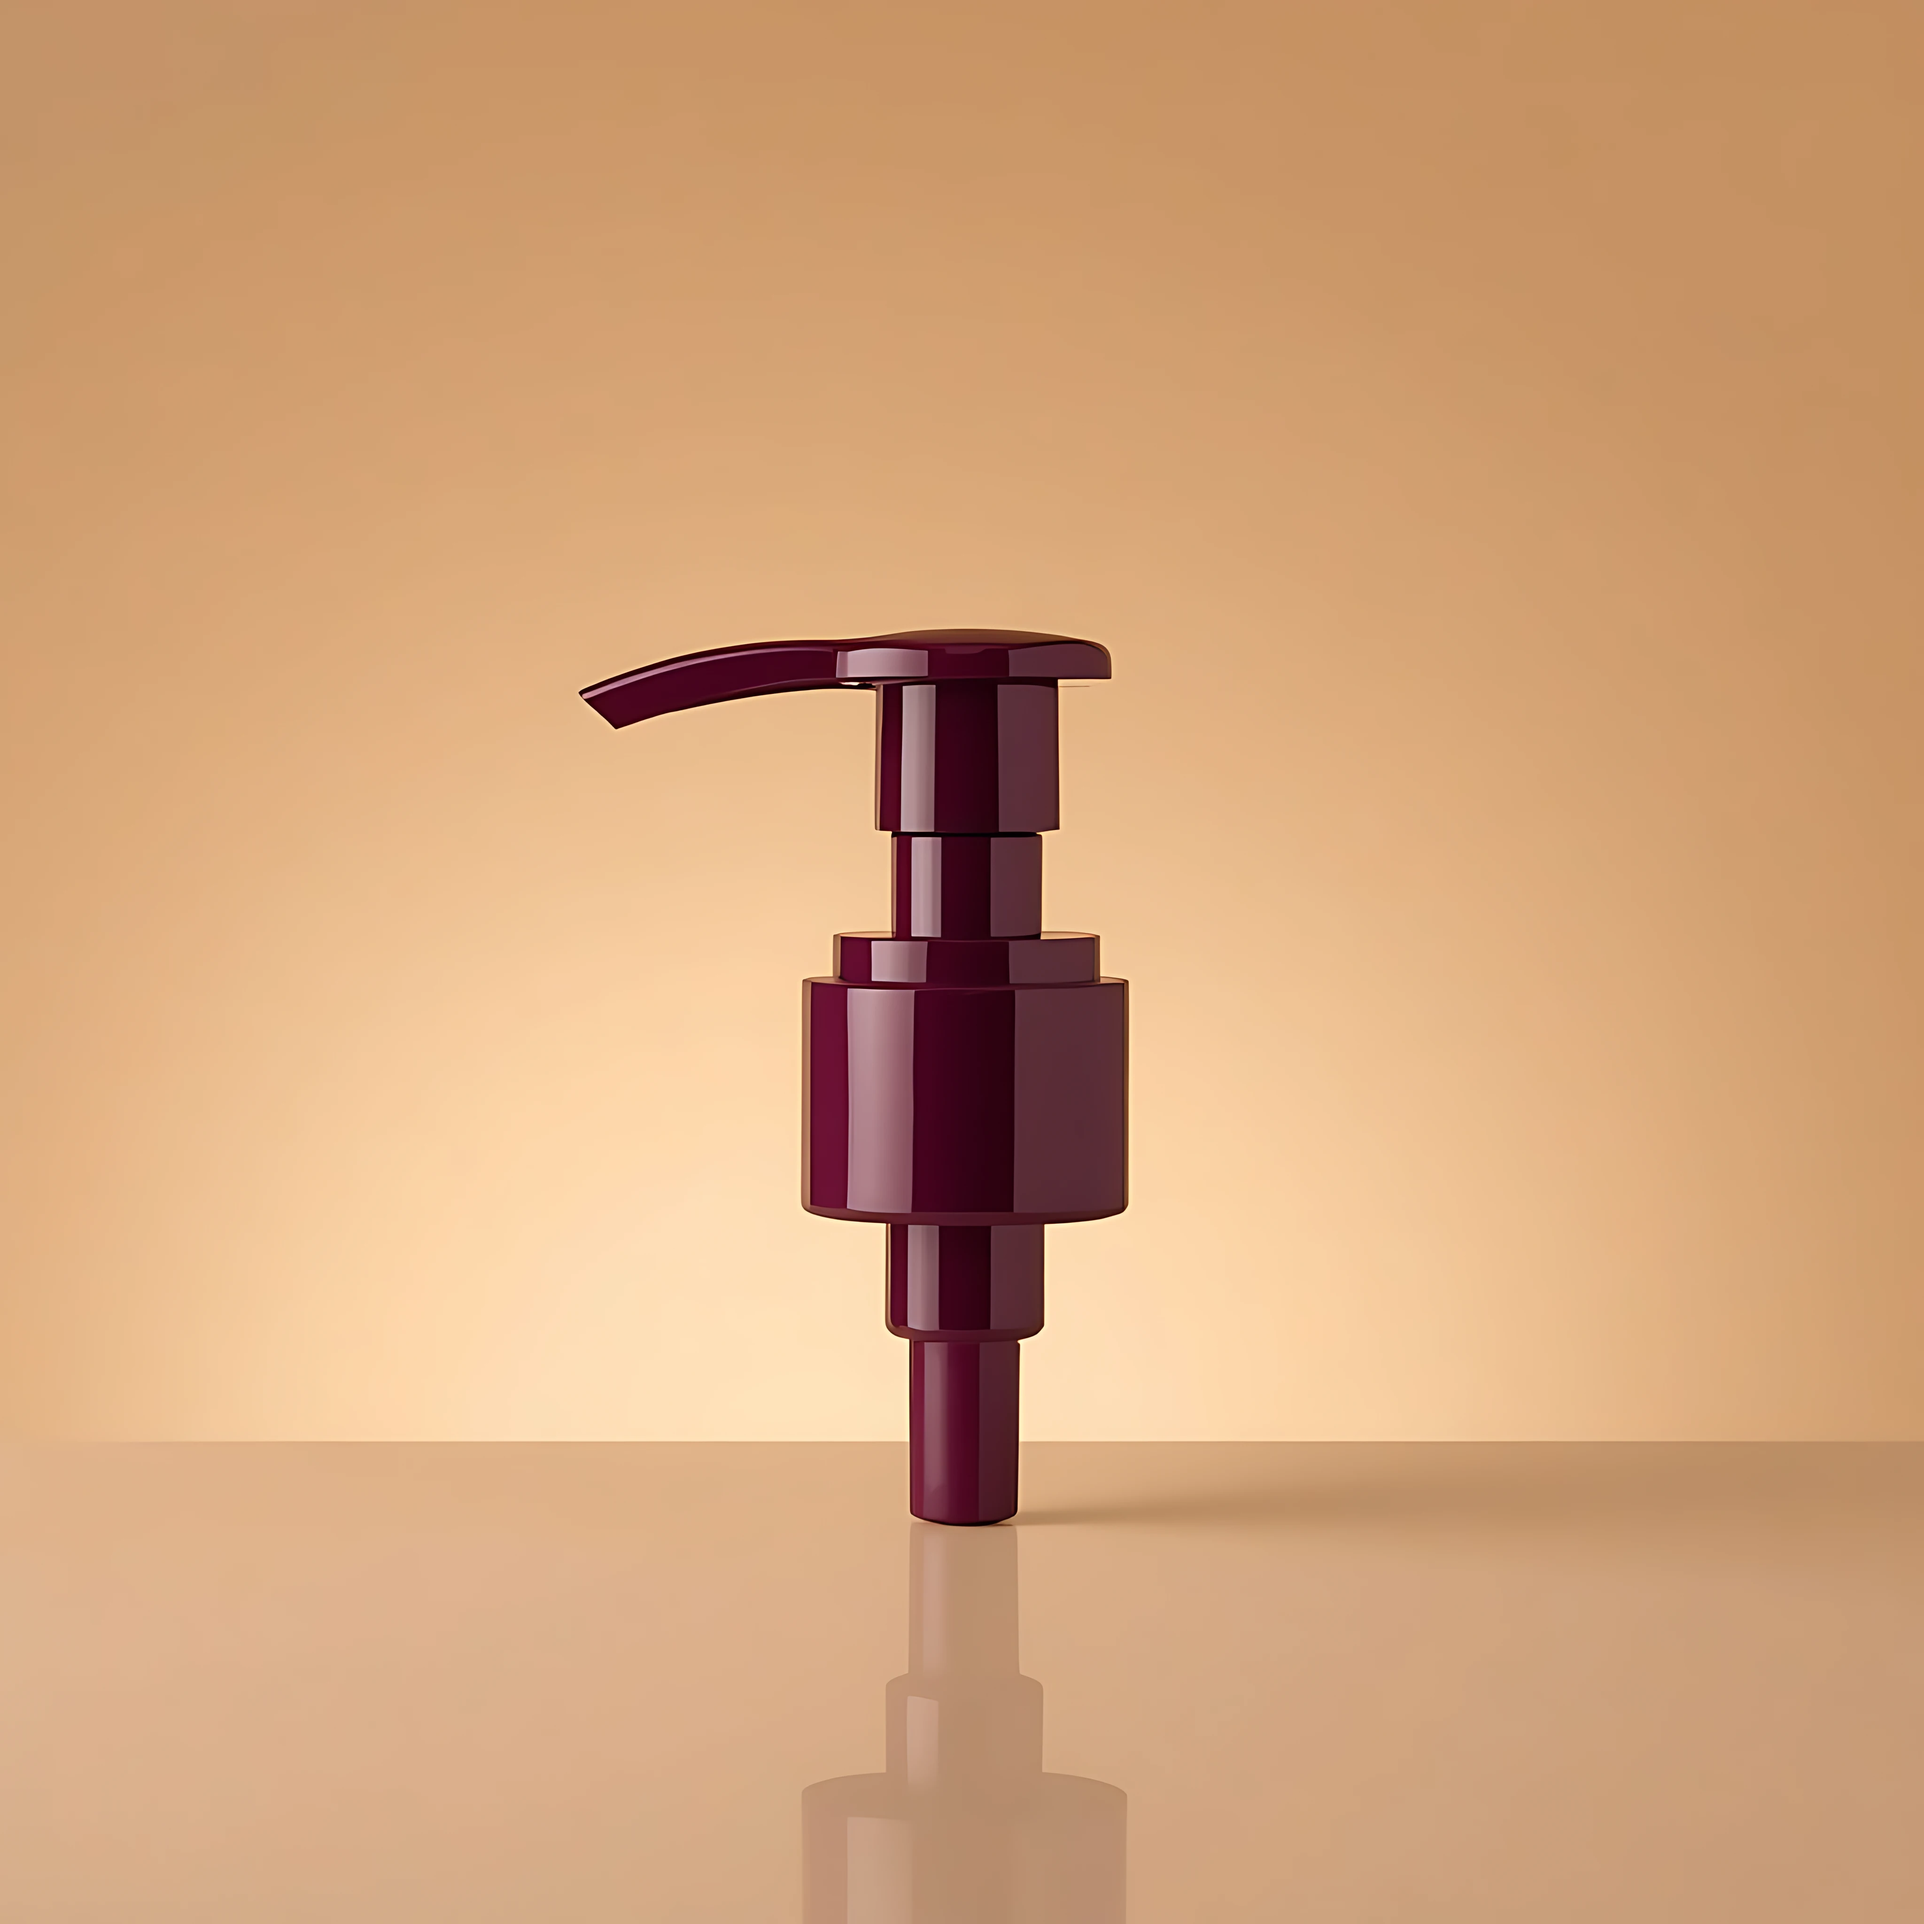
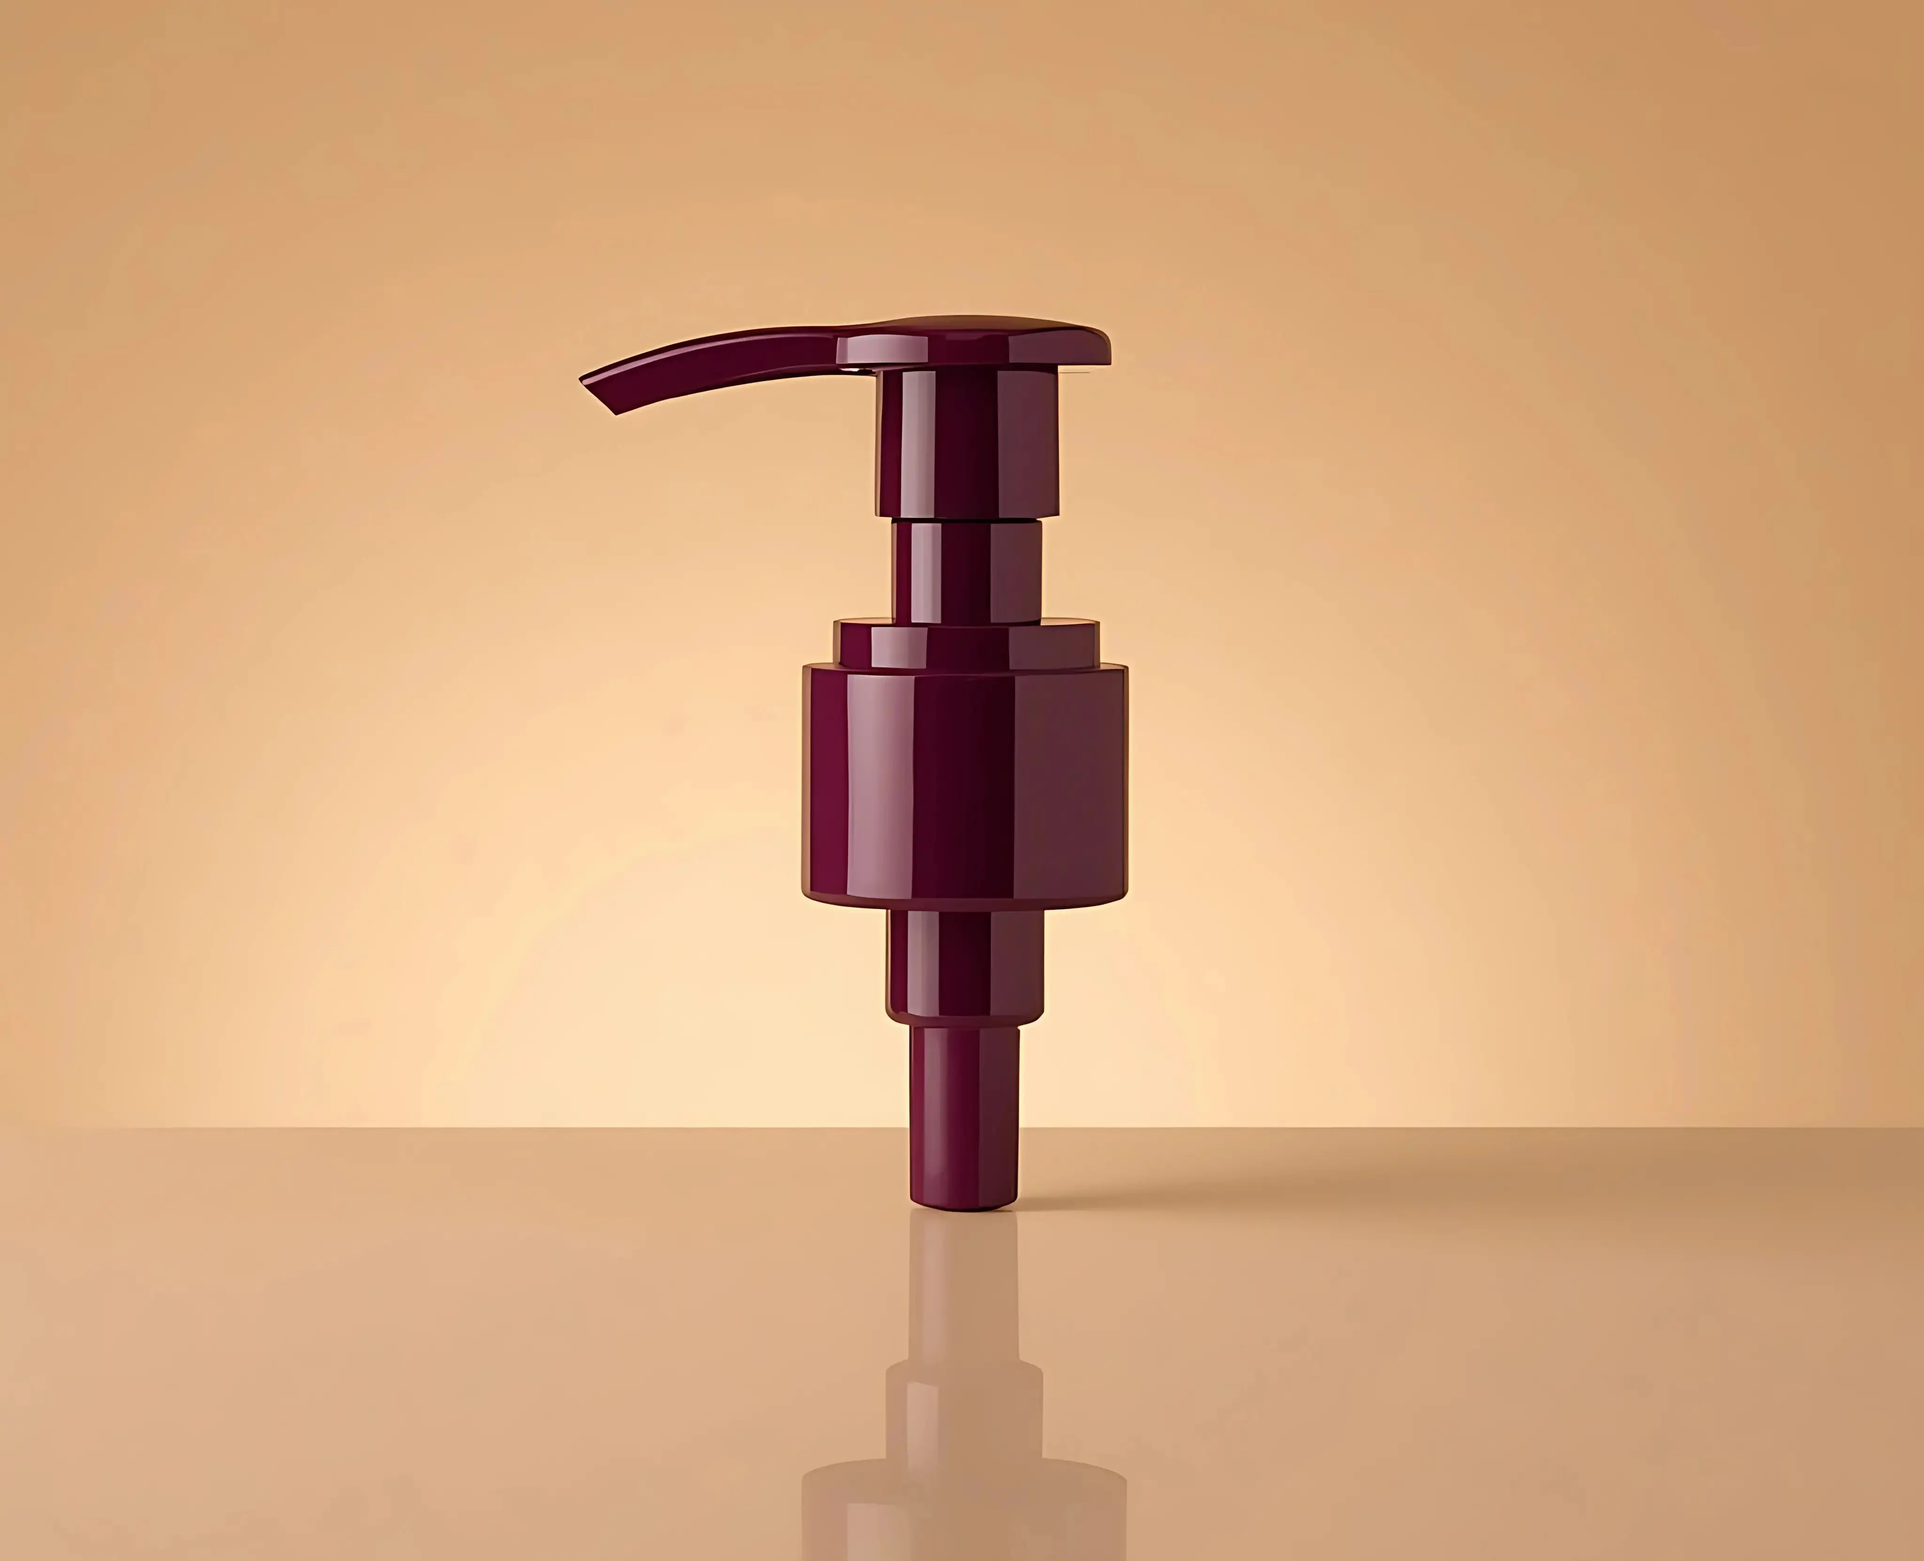
basic product changes

diff --git a/components/PageShell.module.css b/components/PageShell.module.css
@@ -1345,7 +1345,6 @@
 }
 
 .imgWrap img {
-  object-fit: contain;
   transition: transform 550ms cubic-bezier(0.2, 0.65, 0.3, 1);
 }
 
@@ -1512,27 +1511,21 @@
 
 .modalImageWrap {
   position: relative;
-  width: 100%;
+  width: 99%;
   aspect-ratio: 4 / 5;
   overflow: hidden;
   background: #f7f2e9;
 }
-
-.modalImageWrap img {
-  object-fit: contain;
-}
-
 .thumbRow {
   display: grid;
   grid-template-columns: repeat(auto-fit, minmax(56px, 1fr));
-  gap: 0.6rem;
-  margin-top: 0.9rem;
+  justify-content: space-around;
+  margin: 0.3rem;
 }
 
 .thumb {
   position: relative;
   min-width: 0;
-  padding: 0.25rem;
   aspect-ratio: 1;
   overflow: hidden;
   border: 1px solid rgba(58, 15, 22, 0.13);
@@ -1541,10 +1534,6 @@
   transition:
     border-color 200ms ease,
     background 200ms ease;
-}
-
-.thumb img {
-  object-fit: contain;
 }
 
 .thumb:hover,

diff --git a/components/ProductGrid.tsx b/components/ProductGrid.tsx
@@ -126,8 +126,8 @@ export default function ProductGrid({
                     src={activeImage.src}
                     alt={activeImage.label}
                     fill
-                    sizes="(max-width: 600px) 90vw, 420px"
-                    style={{ objectFit: "contain" }}
+                    sizes="(max-width: 550px) 88vw, 400px"
+                    style={{ objectFit: "fill" }}
                   />
                 </div>
               </div>
@@ -152,7 +152,7 @@ export default function ProductGrid({
                         alt={subset.label}
                         fill
                         sizes="64px"
-                        style={{ objectFit: "contain" }}
+                        style={{ objectFit: "fill" }}
                       />
                     </button>
                   ))}

diff --git a/data/categories.ts b/data/categories.ts
@@ -47,10 +47,10 @@ export const categories: Category[] = [
           "قابل انتخاب در مدلها و ابعاد مختلف",
         ],
         subsets: [
-          { src: img("product-1"), label: "نمای کامل" },
-          { src: img("product-6"), label: "نمای نزدیک پمپ" },
-          { src: img("product-7"), label: "درب و نازل" },
-          { src: img("product-8"), label: "جزئیات طراحی" },
+          { src: img("lotion-pump-1"), label: "نمای کامل" },
+          { src: img("lotion-pump-8"), label: "نمای نزدیک پمپ" },
+          { src: img("lotion-pump-3"), label: "درب و نازل" },
+          { src: img("lotion-pump-5"), label: "جزئیات طراحی" },
         ],
       },
       {
